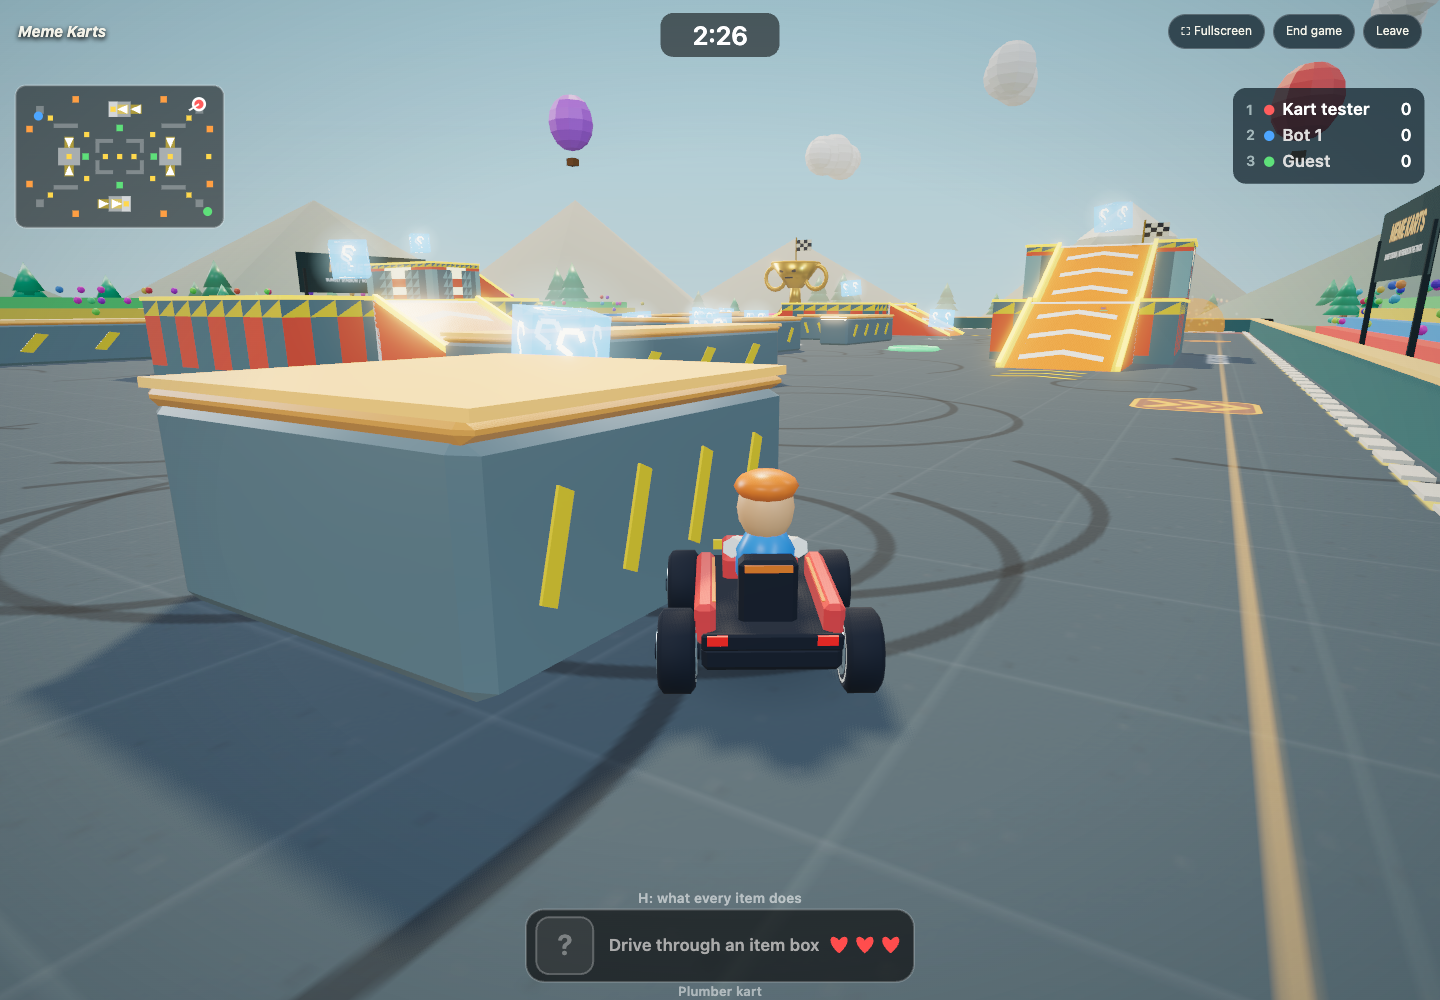
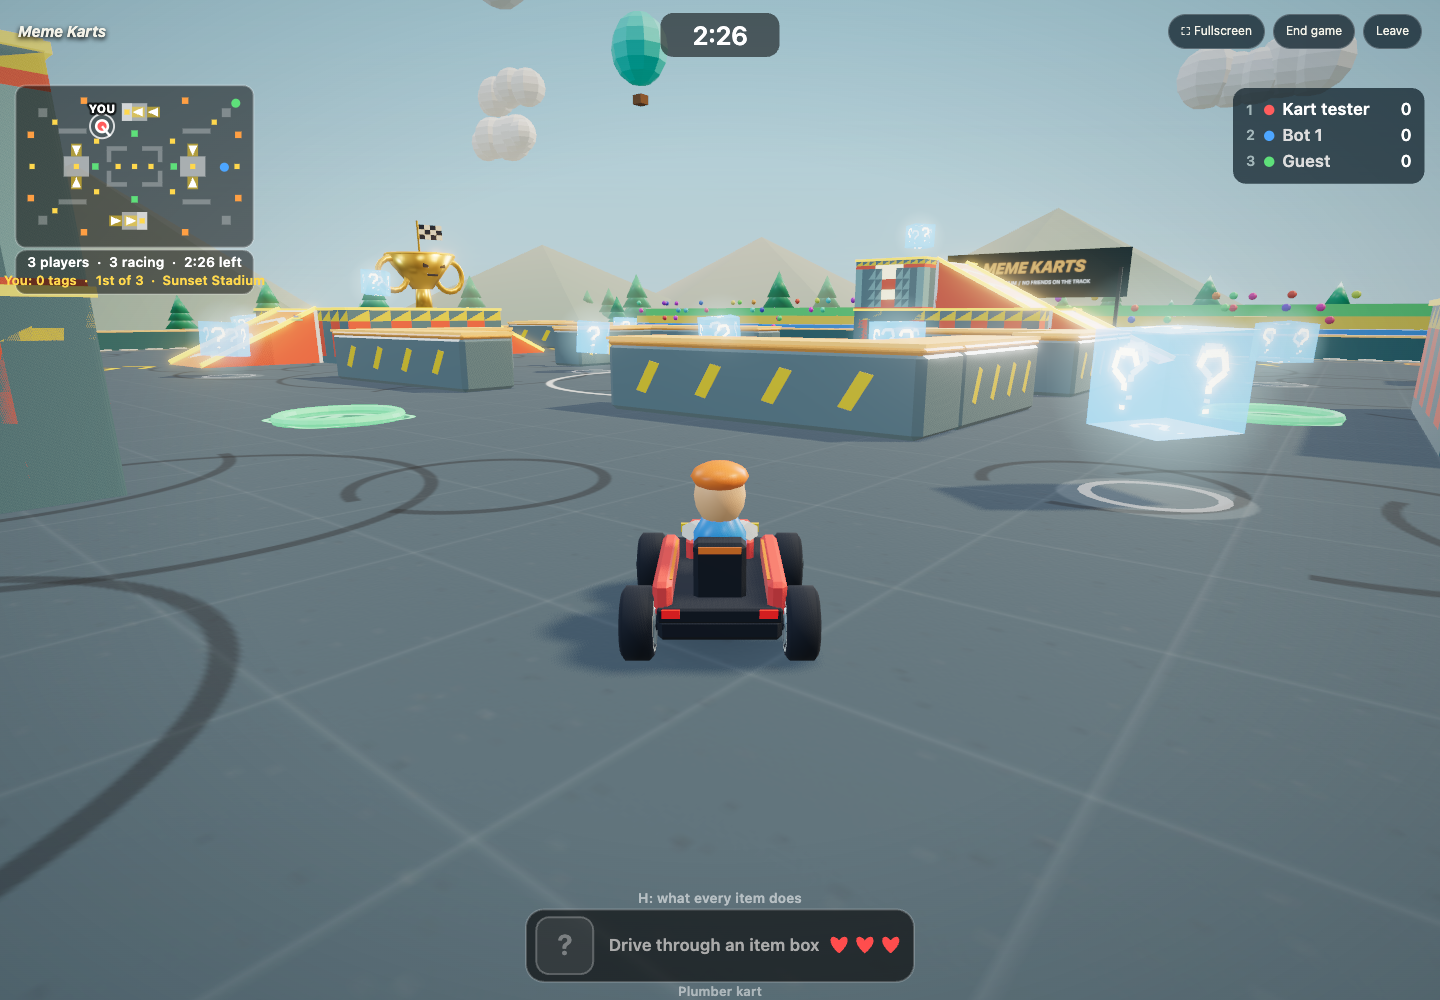
Minimaps with match numbers in both main games
Toy Box Blasters gets a top-left minimap: the arena, ramps, pads,
teleporters, the track and train, the power-up spot, you as an arrow,
teammates always and enemies when close or just fired. Meme Karts' map
is bigger with a YOU marker. Both show players in, players standing or
racing, time left, your tags and rank, and the map name.

diff --git a/public/games/blasters.js b/public/games/blasters.js
@@ -79,7 +79,8 @@ registerGame('blasters', (G) => {
     hold($('.bl-scores'), () => { showScores = true; }, () => { showScores = false; });
   }
   let hurtFlash = 0, hitMark = 0, hitKill = 0, shake = 0, card = null, muted = ls('mk_mute', '0') === '1';
-  const feed = [], banners = [], dmgNums = [], hurtDirs = [];
+  const TELE_COLS = ['#35e6ff', '#c77dff', '#ffd84d']; // teleporter pair colours, shared by the world and the minimap
+  const feed = [], banners = [], dmgNums = [], hurtDirs = [], recentShot = {}; // id -> time of their last shot: enemies who fire show up on the minimap for a moment
   const banner = (text, color = '#ffd84d', t = 2) => { banners.unshift({ text, color, t, d: t }); if (banners.length > 3) banners.length = 3; };
   const showCard = (name, tip, color = '#ffd84d') => { card = { name, tip, color, t: 6 }; }; // the big pickup card: what you just got and what it does
   const mySt = () => s && s.ps.find((p) => p.id === G.me);
@@ -697,6 +698,30 @@ registerGame('blasters', (G) => {
     if (showScores || over) scoreboard();
     if (showGuide) guide();
     if (!locker) txt(`Level ${levelOf(xp)}  •  ${CHAR_NAMES[charIdx]}  •  ${SKINS[skinIdx].name}  (L)`, 20, 52, { size: 11.5, align: 'left', color: '#ffd84d' });
+    // minimap: a top-down of the arena in the top-left corner. You are the white arrow; teammates always show, enemies only when close or when they just fired.
+    if (!locker && !showGuide) {
+      const S = MAP.size, mw = 168, mx = 16, my = 70, k = mw / (S * 2), X = (x) => mx + (x + S) * k, Z = (z) => my + (z + S) * k;
+      rr(mx - 4, my - 4, mw + 8, mw + 8, 8, 'rgba(0,0,0,.55)', 'rgba(255,255,255,.25)');
+      ctx.save(); ctx.beginPath(); ctx.rect(mx, my, mw, mw); ctx.clip();
+      ctx.fillStyle = (MAP.theme || {}).floor || '#7fb77e'; ctx.globalAlpha = 0.35; ctx.fillRect(mx, my, mw, mw); ctx.globalAlpha = 1;
+      if (MAP.train) { ctx.strokeStyle = 'rgba(0,0,0,.45)'; ctx.lineWidth = 2; ctx.setLineDash([3, 3]); ctx.beginPath(); ctx.moveTo(mx, Z(MAP.train.z)); ctx.lineTo(mx + mw, Z(MAP.train.z)); ctx.stroke(); ctx.setLineDash([]); }
+      for (const b of MAP.boxes) { if (b.t === 'wall' || b.t === 'step') continue; const h = Math.min(1, b.y1 / 7.2); ctx.fillStyle = b.c ? b.c : `rgba(40,30,20,${0.3 + h * 0.55})`; ctx.fillRect(X(b.x0), Z(b.z0), (b.x1 - b.x0) * k, (b.z1 - b.z0) * k); }
+      for (const r of MAP.ramps) { ctx.fillStyle = r.kind === 'launch' ? '#ff8a3d' : '#d9b27a'; ctx.fillRect(X(r.x0), Z(r.z0), (r.x1 - r.x0) * k, (r.z1 - r.z0) * k); }
+      for (const p of MAP.pads) { ctx.fillStyle = p.big ? '#ff7a3d' : '#35e6ff'; ctx.beginPath(); ctx.arc(X(p.x), Z(p.z), 2.5, 0, 7); ctx.fill(); }
+      MAP.teles.forEach((pair, i) => pair.forEach((e) => { ctx.strokeStyle = TELE_COLS[i % TELE_COLS.length]; ctx.lineWidth = 1.5; ctx.beginPath(); ctx.arc(X(e.x), Z(e.z), 3, 0, 7); ctx.stroke(); }));
+      { const pp = MAP.pickups.find((p) => p.kind === 'power'); if (pp) txt(s.pw.up ? '★' : '☆', X(pp.x), Z(pp.z), { size: 11, color: s.pw.up ? '#ffd84d' : 'rgba(255,255,255,.6)', stroke: false }); }
+      if (s.tr) { ctx.fillStyle = '#e23b3b'; ctx.fillRect(X(s.tr[0] - (s.tr[1] > 0 ? MAP.train.len : 0)), Z(MAP.train.z) - 2, MAP.train.len * k, 4); }
+      for (const p of s.ps) { if (p.id === G.me || p.dead) continue; const mate = s.tm && st && p.tm === st.tm, d = Math.hypot(p.x - body.x, p.z - body.z); if (!mate && !(d < 14 || time - (recentShot[p.id] || -9) < 2.5) || p.pw === 'shadow' || (p.pw === 'ghost' && !mate)) continue;
+        const col = mate ? TEAM[p.tm].color : s.tm ? TEAM[p.tm].color : '#ff5d5d'; ctx.fillStyle = col; ctx.beginPath(); ctx.arc(X(p.x), Z(p.z), mate ? 3.5 : 3, 0, 7); ctx.fill(); if (!mate) { ctx.strokeStyle = '#fff'; ctx.lineWidth = 1; ctx.stroke(); } }
+      if (st && !st.dead) { const x = X(body.x), z = Z(body.z); ctx.save(); ctx.translate(x, z); ctx.rotate(-me.yaw); ctx.fillStyle = '#fff'; ctx.beginPath(); ctx.moveTo(0, -7); ctx.lineTo(5, 5); ctx.lineTo(0, 2.5); ctx.lineTo(-5, 5); ctx.closePath(); ctx.fill(); ctx.restore(); ctx.beginPath(); ctx.arc(x, z, 9 + Math.sin(time * 5) * 1.5, 0, 7); ctx.strokeStyle = 'rgba(255,255,255,.7)'; ctx.lineWidth = 1.5; ctx.stroke(); }
+      ctx.restore();
+      txt('N', mx + mw - 8, my + 9, { size: 9, weight: 800, color: 'rgba(255,255,255,.7)', stroke: false });
+      // the numbers: who is in, who is still standing, where you are in the race
+      const total = s.ps.length, alive = s.ps.filter((p) => !p.dead).length, order = s.ps.slice().sort((a, b) => b.k - a.k || b.sc - a.sc), rank = order.findIndex((p) => p.id === G.me) + 1, iy = my + mw + 18;
+      rr(mx - 4, iy - 11, mw + 44, 36, 8, 'rgba(0,0,0,.55)', 'rgba(255,255,255,.2)');
+      txt(`${total} players  ·  ${alive} standing`, mx + mw / 2 + 18, iy, { size: 11, weight: 700, color: '#fff', stroke: false });
+      txt(s.tm ? `Red ${s.tk[0]}  ·  Blue ${s.tk[1]}  ·  ${MAP.name}` : `You ${st ? st.k : 0} tags  ·  ${rank ? rank + (rank === 1 ? 'st' : rank === 2 ? 'nd' : rank === 3 ? 'rd' : 'th') : '-'} of ${total}  ·  ${MAP.name}`, mx + mw / 2, iy + 14, { size: 10, color: '#ffd84d', stroke: false });
+    }
   }
   let deathBy = '';
   function scoreboard() {
@@ -744,7 +769,7 @@ registerGame('blasters', (G) => {
       const mine = e.id === G.me;
       if (e.type === 'spawn' && mine) { Object.assign(body, B.newBody(e.x, e.y, e.z)); if (!e.keep) { me.yaw = e.yaw; me.pitch = 0; me.w = 0; me.mag = WEAPONS[0].mag; me.reloadEnd = 0; me.nextFire = 0; me.burstLeft = 0; me.eye = P.EYE; } }
       else if (e.type === 'shot' && mine) myShots++;
-      else if (e.type === 'shot' && !mine) { const v = T && T.ready && T.view(e.id); if (v) { v.recoil = 1; const d = Math.hypot(v.x - body.x, v.z - body.z), vol = Math.max(0.08, 1 - d / 50); play(WEAPONS[e.w].id, vol); if (e.o && e.e) T.tracer([e.o[0], e.o[1] - 0.25, e.o[2]], e.e, 0xfff0c0); } }
+      else if (e.type === 'shot' && !mine) { recentShot[e.id] = time; const v = T && T.ready && T.view(e.id); if (v) { v.recoil = 1; const d = Math.hypot(v.x - body.x, v.z - body.z), vol = Math.max(0.08, 1 - d / 50); play(WEAPONS[e.w].id, vol); if (e.o && e.e) T.tracer([e.o[0], e.o[1] - 0.25, e.o[2]], e.e, 0xfff0c0); } }
       else if (e.type === 'dmg') { hitMark = 0.16; if (e.kill) hitKill = 0.4; play(e.head ? 'head' : 'hit'); dmgNums.push({ x: e.x, y: e.y, z: e.z, n: e.n, head: e.head, kill: e.kill, t: 0.9, ox: (Math.random() - 0.5) * 30 }); if (dmgNums.length > 14) dmgNums.shift(); }
       else if (e.type === 'hurt') { hurtFlash = Math.min(0.7, 0.25 + e.n / 120); hurtDirs.push({ x: e.x, z: e.z, t: 1 }); if (hurtDirs.length > 4) hurtDirs.shift(); play('hurt'); if (!reducedMotion) shake = Math.max(shake, 0.25); }
       else if (e.type === 'kill') {

diff --git a/public/style.css b/public/style.css
@@ -93,7 +93,7 @@ button:focus-visible,a:focus-visible,summary:focus-visible { outline:3px solid #
 .bl-fire { right:20px;bottom:calc(134px * var(--s));width:84px!important;height:84px!important;font-size:15px!important;background:#ff5d5dcc!important;border-color:#fff8!important; }
 .bl-jump { right:116px;bottom:calc(122px * var(--s)); } .bl-aim { right:112px;bottom:calc(188px * var(--s)); } .bl-crouch { right:24px;bottom:calc(228px * var(--s));width:50px!important;height:50px!important;font-size:9px!important; } .bl-sword { right:180px;bottom:calc(152px * var(--s));width:50px!important;height:50px!important; } .bl-dash { right:172px;bottom:calc(214px * var(--s));width:50px!important;height:50px!important; }
 .bl-reload { right:92px;bottom:calc(254px * var(--s));width:46px!important;height:46px!important;font-size:9px!important; } .bl-next { right:150px;bottom:calc(274px * var(--s));width:46px!important;height:46px!important; } .bl-drop { right:30px;bottom:calc(288px * var(--s));width:42px!important;height:42px!important;font-size:9px!important; }
-.bl-menu { left:26px;top:calc(62px * var(--s));width:auto!important;height:34px!important;border-radius:17px!important;padding:0 12px!important; } .bl-scores { left:110px;top:calc(62px * var(--s));width:auto!important;height:34px!important;border-radius:17px!important;padding:0 12px!important; } }
+.bl-menu { left:calc(200px * var(--s));top:calc(62px * var(--s));width:auto!important;height:34px!important;border-radius:17px!important;padding:0 12px!important; } .bl-scores { left:calc(284px * var(--s));top:calc(62px * var(--s));width:auto!important;height:34px!important;border-radius:17px!important;padding:0 12px!important; } }
 .fort .map-art { background:linear-gradient(135deg,#8fd0ff,#4f8fcf); }.towers .map-art { background:linear-gradient(135deg,#ffc48a,#e07a5f); }.map-art>span { position:absolute;bottom:12px;left:14px;background:#122530ce;color:white;padding:5px 8px;border-radius:5px;font-size:9px;letter-spacing:1px; }.map-copy { padding:17px;display:grid;gap:5px; }.map-copy b { font-size:18px; }.map-copy small { color:#6b7973;font-size:12px; }
 .how-to { display:flex;align-items:center;justify-content:space-between;gap:20px;flex-wrap:wrap;max-width:1260px;margin:0 auto;padding:40px 0; }.how-to>b { font-size:12px;letter-spacing:1px; }.how-to span { font-size:12px;color:#c1ceca; }.how-to small { font-size:10px;color:#77918f; }kbd { padding:7px 9px;background:#2a3d41;border:1px solid #4b6060;border-bottom-width:3px;border-radius:6px;margin-right:8px;font:700 10px system-ui; }footer { border-top:1px solid #ffffff16;max-width:1260px;margin:auto;padding:22px 0 40px;font-size:12px;font-weight:900;letter-spacing:2px; }footer span { float:right;font-weight:400;letter-spacing:0;color:#93aaa9; }
 #lobby header { padding:20px 4%; }#lobby .lobbyBody { max-width:1400px;width:100%;margin:auto;padding:40px 4%;gap:28px; }#lobby aside { width:240px;align-self:start;padding:22px; }#lobby main { gap:24px; }#lobby .map-art { height:180px; }#arcade summary { cursor:pointer;color:var(--muted);font-size:13px; }#arcade #gameGrid { margin-top:18px; }.lobby-heading .eyebrow { margin-bottom:8px; }#startBtn { max-width:380px;align-self:flex-end; }

diff --git a/public/games/memekarts.js b/public/games/memekarts.js
@@ -768,7 +768,7 @@ registerGame('memekarts', (G) => {
       ctx.restore();
     }
     // minimap
-    const mx = 16, my = W<700?90:70, ms = (W<700?117:153)/MW;
+    const mx = 16, my = W<700?90:70, ms = (W<700?117:176)/MW; /* a little bigger, and it carries the match numbers underneath */
     rr(mx - 4, my - 4, MW * ms + 8, MH * ms + 8, 8, 'rgba(0,0,0,.5)', 'rgba(255,255,255,.25)');
     for (const z of map.zones || []) { ctx.fillStyle = 'rgba(140,90,40,.75)'; ctx.fillRect(mx + z.x * ms, my + z.y * ms, z.w * ms, z.h * ms); }
     for (const d of map.decks || []) { ctx.fillStyle = 'rgba(255,255,255,.5)'; ctx.fillRect(mx + d.x * ms, my + d.y * ms, d.w * ms, d.h * ms); }
@@ -779,7 +779,13 @@ registerGame('memekarts', (G) => {
     ctx.fillStyle = 'rgba(255,255,255,.28)'; for (const o of OBST) ctx.fillRect(mx + o.x * ms, my + o.y * ms, o.w * ms, o.h * ms);
     s.boxes.forEach((on, i) => { if (on) { ctx.fillStyle = '#ffd84d'; ctx.fillRect(mx + BOXES[i][0] * ms - 2, my + BOXES[i][1] * ms - 2, 4, 4); } });
     for (const e of s.ents) if (e.k === 'blue' || e.k === 'red') G.circle(mx + e.x * ms, my + e.y * ms, 2, e.k === 'blue' ? '#6ea0ff' : '#ff6a6a');
-    for (const k of s.karts) { if (k.dead || (k.ghost && k.id !== G.me)) continue; const p = G.player(k.id), x = mx + k.x * ms, y = my + k.y * ms; G.circle(x, y, k.id === G.me ? 4.5 : 3.5, p.color, k.id === G.me ? '#fff' : null); if (k.id === G.me) { ctx.beginPath(); ctx.moveTo(x, y); ctx.lineTo(x + Math.cos(k.a) * 9, y + Math.sin(k.a) * 9); ctx.strokeStyle = '#fff'; ctx.lineWidth = 1.5; ctx.stroke(); } }
+    for (const k of s.karts) { if (k.dead || (k.ghost && k.id !== G.me)) continue; const p = G.player(k.id), x = mx + k.x * ms, y = my + k.y * ms; G.circle(x, y, k.id === G.me ? 4.5 : 3.5, p.color, k.id === G.me ? '#fff' : null); if (k.id === G.me) { ctx.beginPath(); ctx.moveTo(x, y); ctx.lineTo(x + Math.cos(k.a) * 10, y + Math.sin(k.a) * 10); ctx.strokeStyle = '#fff'; ctx.lineWidth = 2; ctx.stroke(); ctx.beginPath(); ctx.arc(x, y, 8 + Math.sin(time * 5) * 1.5, 0, 7); ctx.strokeStyle = 'rgba(255,255,255,.8)'; ctx.lineWidth = 1.5; ctx.stroke(); G.text('YOU', x, y - 13, { size: 9, weight: 800, color: '#fff' }); } }
+    { /* who is in, who is still racing, where you stand */
+      const total = s.karts.length, racing = s.karts.filter((k) => !k.dead).length, order = s.karts.slice().sort((a, b) => b.kills - a.kills), rank = order.findIndex((k) => k.id === G.me) + 1, iy = my + MH * ms + 16;
+      rr(mx - 4, iy - 10, MW * ms + 8, 34, 8, 'rgba(0,0,0,.5)', 'rgba(255,255,255,.2)');
+      G.text(`${total} players  ·  ${racing} racing  ·  ${Math.floor(s.t / 60)}:${String(s.t % 60).padStart(2, '0')} left`, mx + (MW * ms) / 2, iy, { size: 10.5, color: '#fff', stroke: false });
+      if (me) G.text(`You: ${me.kills} tags  ·  ${rank ? rank + (rank === 1 ? 'st' : rank === 2 ? 'nd' : rank === 3 ? 'rd' : 'th') + ' of ' + total : ''}  ·  ${map.name}`, mx + (MW * ms) / 2, iy + 14, { size: 10, color: '#ffd84d', stroke: false });
+    }
     // item slot + hearts
     if (me) {
       rr(W / 2 - 150, H - 70, 300, 56, 14, 'rgba(0,0,0,.6)', 'rgba(255,255,255,.2)');

diff --git a/CLAUDE.md b/CLAUDE.md
@@ -26,7 +26,7 @@ Browser party games for friends on a call. Node + Express + Socket.IO server, va
   - `node tools/mp.js` — two separate browsers in one room for both primary games: each sees the other move, shots land. `node tools/home.js` — home page and lobby game switch. `node tools/blasters-rules.js`, `node tools/blasters-map-check.js` — shooter rules and map physics without a browser.
   - `node tools/refresh.js [gameId]` — real page refresh in the lobby and mid-game, plus the Leave button.
   - `node tools/kart-items-check.js` — every Meme Karts item fired at placed karts, asserting the logical outcome (hits, homing, bounces, steals, immunities, timers). `node tools/blasters-items-check.js` — every shooter pickup, power-up and hitscan blaster rule on both maps. Run both after touching items. Power-ups: `POWERS` in the shared file; `rare: true` ones come up through `rollPower()` (25%): `inf` (no ammo use, server), `vamp` (heal on hit, server), `moon` (`body.grav` in the shared physics, set by the client and the bots), `bighead` (client-only: bigger `headR` in `rayPlayer` and scaled heads), `shadow` (server: hits do 999; client: figure hidden from enemies; bots ignore them).
-  - `node tools/mobile.js` — the site on an emulated iPhone (touch, no pointer lock): home and lobby fit, Meme Karts d-pad, Toy Box Blasters joystick / look drag / fire button. Touch controls: `.kart-touch-controls` in `public/games/memekarts.js` (Codex's), `.bl-touch` built by `buildTouch()` in `public/games/blasters.js` (shown only under `pointer:coarse`; the shooter runs soft-locked on touch). `#rotateHint` asks for landscape.
+  - `node tools/mobile.js` — the site on an emulated iPhone. Both main games draw a minimap in the top-left of the HUD (you as a marker, players, hazards) with the match numbers under it; the shooter shows enemies only when close or just fired (`recentShot`).  (touch, no pointer lock): home and lobby fit, Meme Karts d-pad, Toy Box Blasters joystick / look drag / fire button. Touch controls: `.kart-touch-controls` in `public/games/memekarts.js` (Codex's), `.bl-touch` built by `buildTouch()` in `public/games/blasters.js` (shown only under `pointer:coarse`; the shooter runs soft-locked on touch). `#rotateHint` asks for landscape.
   - `node tools/items.js [mapId]`, `node tools/playnow.js`, `node tools/shapes.js`, `node tools/glbinfo.js <file.glb>`.
 
 ## Conventions
